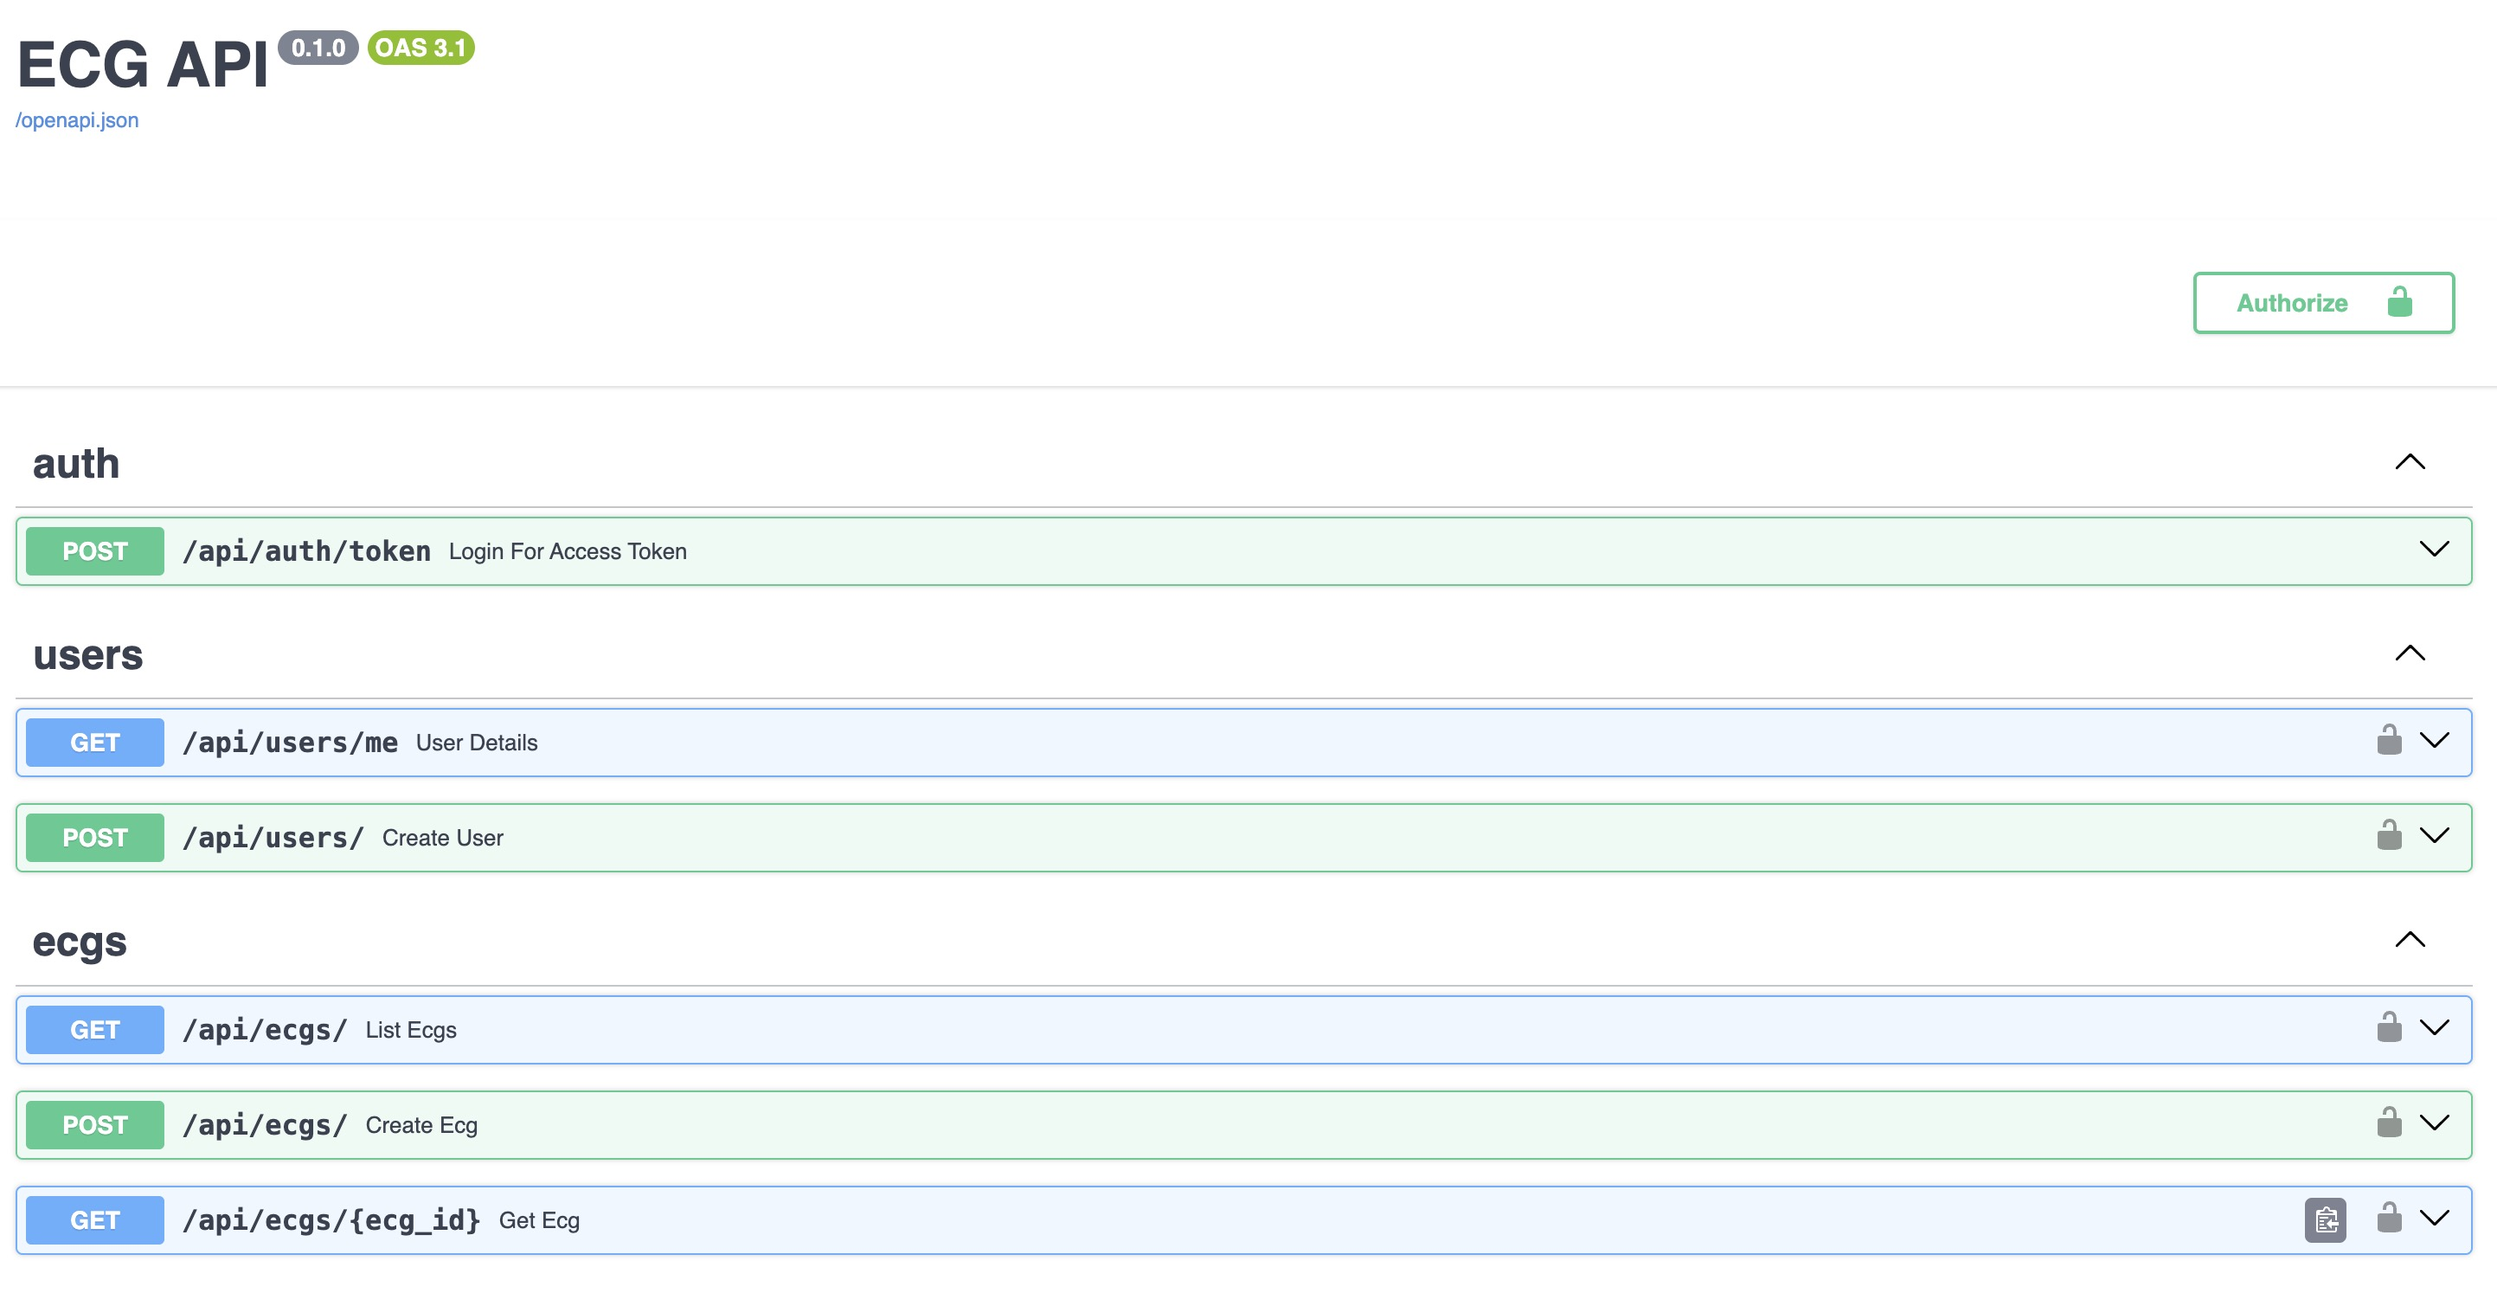
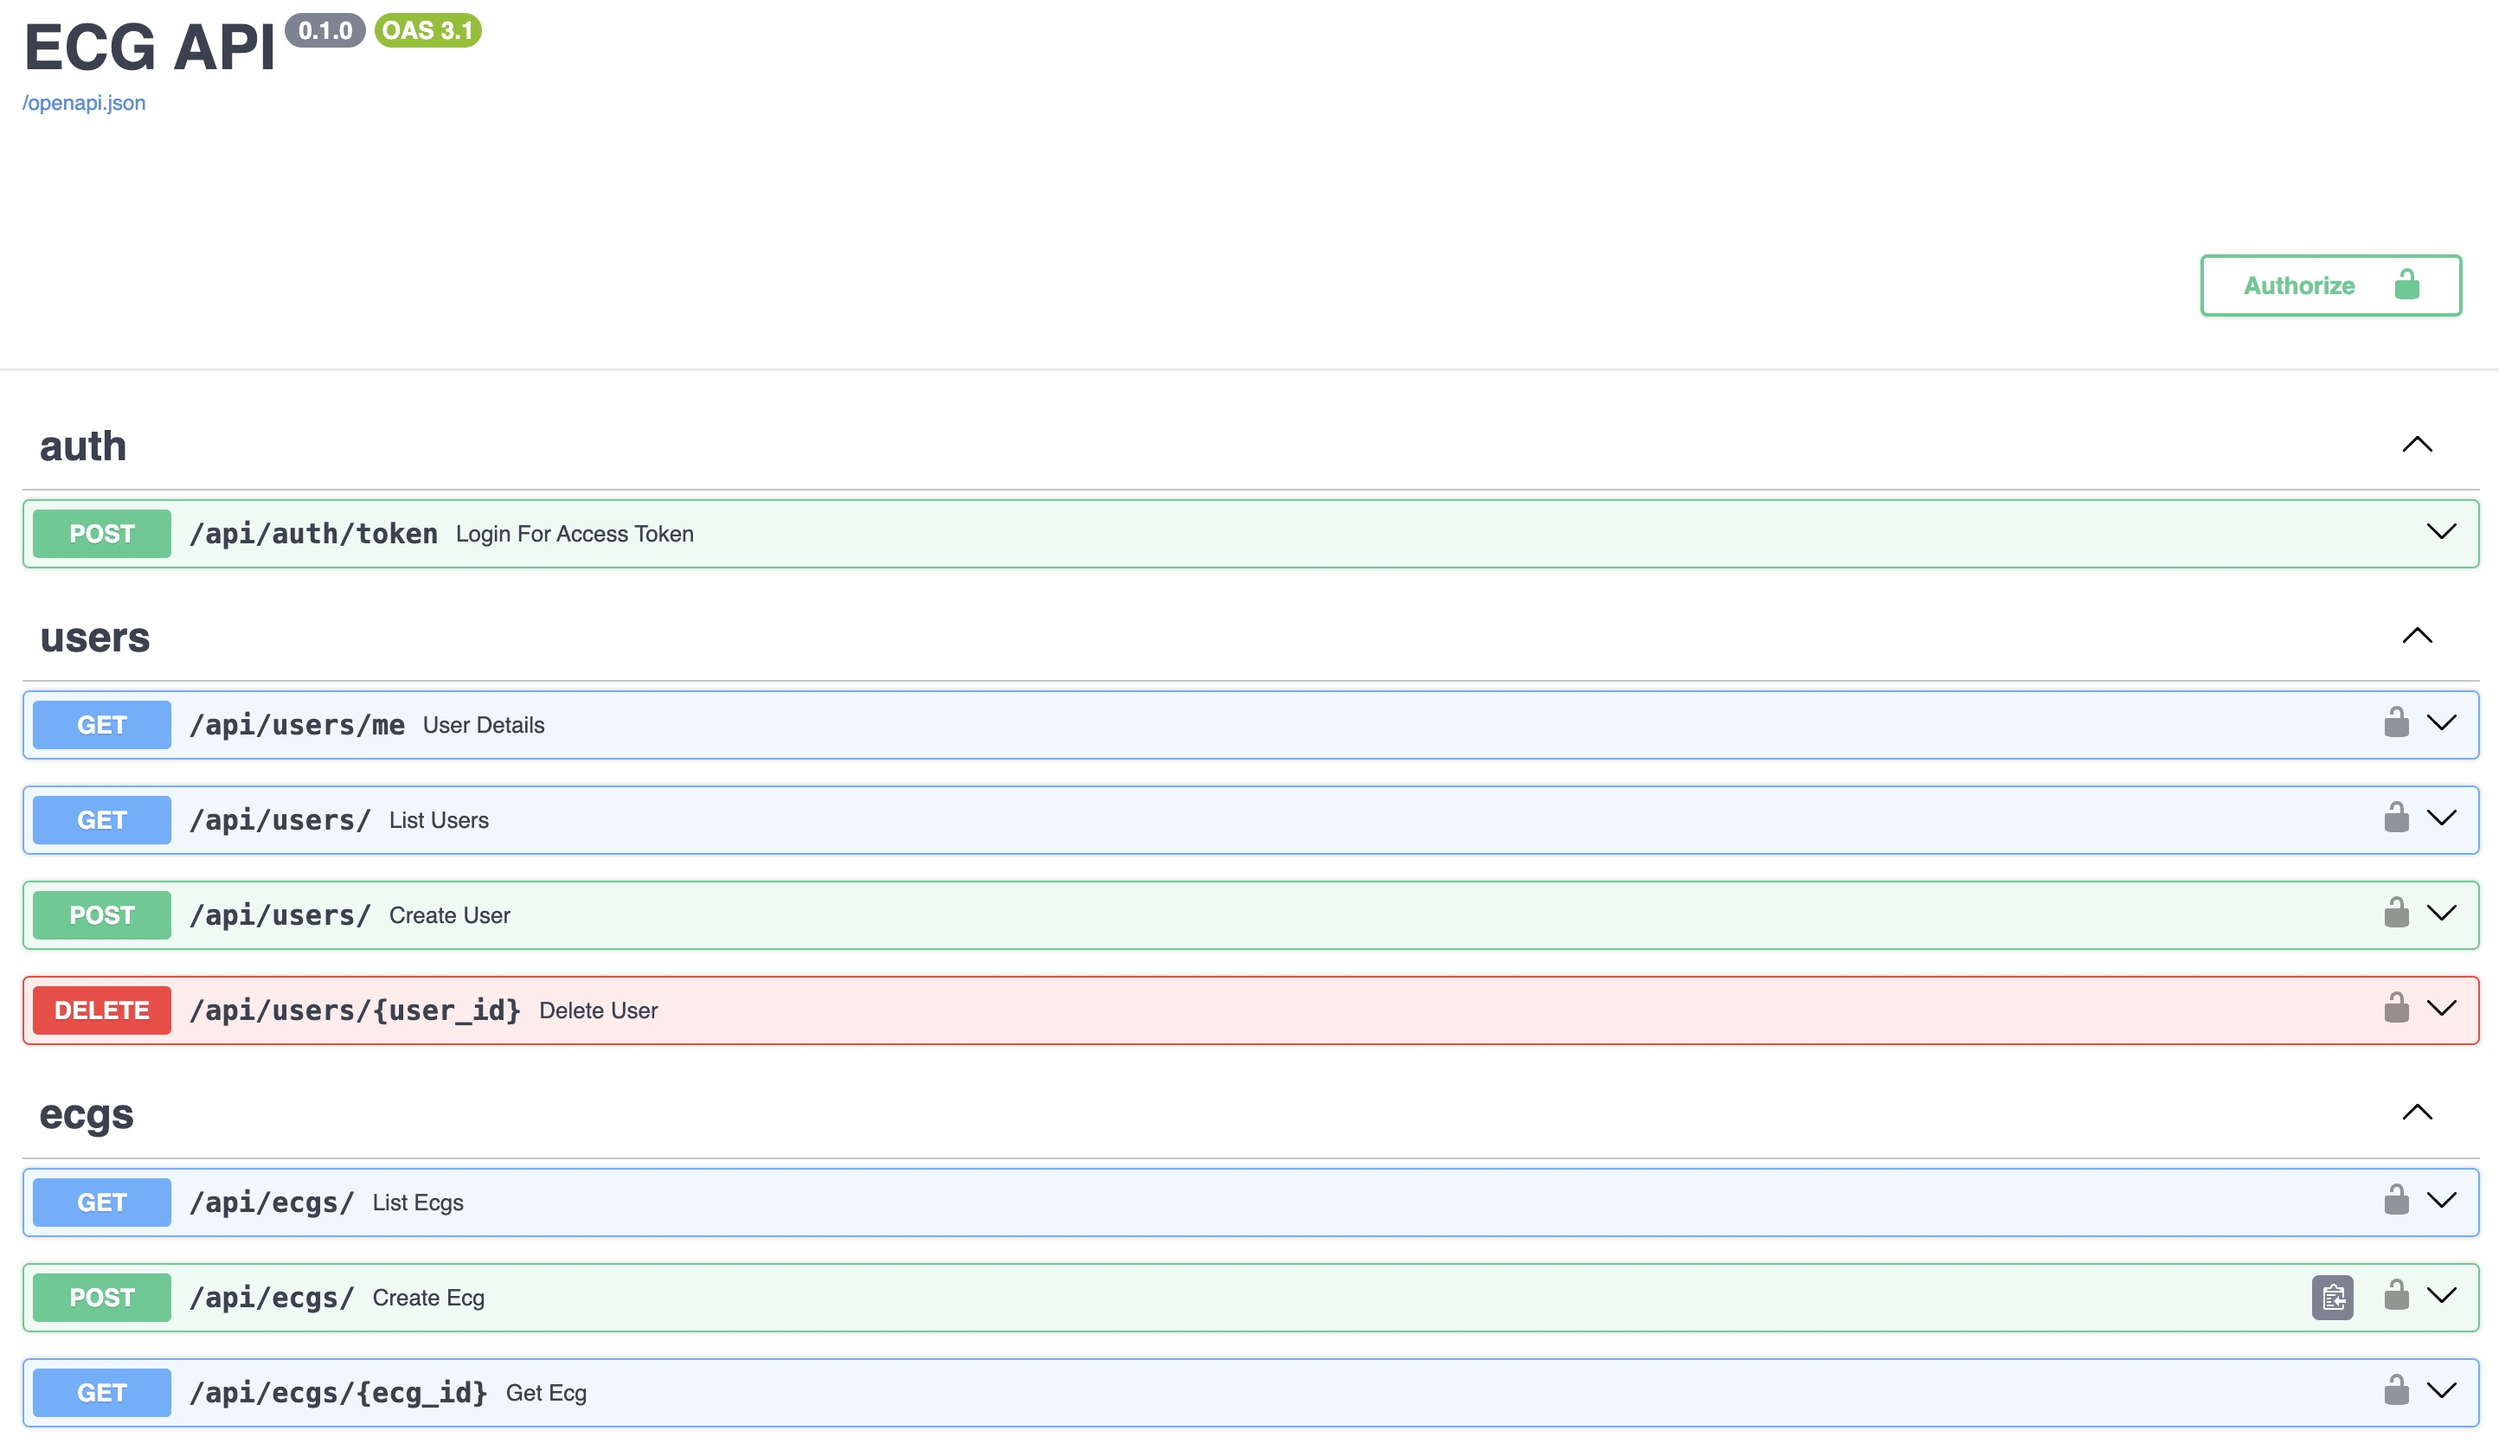
🦺 Improve validation in user endpoints
- Bonus: add extra delete and list endpoints

Changed region(s): [[0.0, 0.2771, 0.9979, 1.0], [0.0, 0.0, 0.1871, 0.1232], [0.8732, 0.1847, 0.9979, 0.2771]]

diff --git a/tests/test_users.py b/tests/test_users.py
@@ -1,8 +1,10 @@
+import uuid
 from httpx import AsyncClient
 import pytest
 from sqlalchemy.ext.asyncio import AsyncSession
 
-from app.models.user import Role
+from app.models.user import Role, UserDAL
+from app.schemas.user import User
 
 
 @pytest.mark.asyncio
@@ -59,3 +61,57 @@ async def test_user_create_no_admin_permissions(
     )
     assert response.status_code == 401
     assert response.json().get("detail") == "Not enough permissions"
+
+
+@pytest.mark.asyncio
+async def test_user_create_already_exists(
+    authenticated_client_admin: AsyncClient,
+    user: User,
+    db_session: AsyncSession,
+) -> None:
+    response = await authenticated_client_admin.post(
+        "/api/users/",
+        json={"username": user.username, "password": "user", "role": "user"},
+    )
+    assert response.status_code == 400
+    assert response.json().get("detail") == "Username already registered"
+
+
+@pytest.mark.parametrize(
+    "username, status_code",
+    [
+        ("admin", 400),  # admin user (delete yourself)
+        ("user", 200),  # regular user,
+        ("unknown", 404),  # unknown user
+    ],
+)
+@pytest.mark.asyncio
+async def test_user_delete(
+    authenticated_client_admin: AsyncClient,
+    user: User,
+    db_session: AsyncSession,
+    username: str,
+    status_code: int,
+) -> None:
+    user_dal = UserDAL(db_session)
+    user_to_delete = await user_dal.get_by_username(username)
+    user_id = user_to_delete.id if user_to_delete else uuid.uuid4()
+    response = await authenticated_client_admin.delete(f"/api/users/{user_id}")
+    assert response.status_code == status_code
+    if status_code == 200:
+        assert response.json().get("username") == user_to_delete.username
+        assert (await user_dal.get_by_username(user_to_delete.username)) is None
+
+
+@pytest.mark.asyncio
+async def test_list_users(
+    authenticated_client_admin: AsyncClient,
+    user: User,
+    admin_user: User,
+) -> None:
+    response = await authenticated_client_admin.get("/api/users/")
+    assert response.status_code == 200
+    assert {e["username"] for e in response.json()} == {
+        user.username,
+        admin_user.username,
+    }

diff --git a/app/api/routers/users.py b/app/api/routers/users.py
@@ -1,7 +1,9 @@
+from pydantic import UUID4
 from app.api.dependencies.core import DBSessionDep
 from app.api.dependencies.user import CurrentAdminUserDep, CurrentUserDep
+from app.models.user import UserDAL
 from app.schemas.user import Role, User, UserCreate
-from fastapi import APIRouter
+from fastapi import APIRouter, HTTPException
 
 from app.utils.auth import get_user, create_user as create_user_func
 
@@ -36,9 +38,49 @@ async def create_user(
     """
     Create a new user
     """
+    user_dal = UserDAL(db_session)
+    if await user_dal.get_by_username(new_user.username):
+        raise HTTPException(status_code=400, detail="Username already registered")
+
     return await create_user_func(
         db_session,
         new_user.username,
         new_user.password,
         is_superuser=new_user.role == Role.ADMIN,
     )
+
+
+@router.delete("/{user_id}", response_model=User)
+async def delete_user(
+    current_user: CurrentAdminUserDep,
+    db_session: DBSessionDep,
+    user_id: UUID4,
+) -> User:
+    """
+    Delete a user
+    """
+    user_dal = UserDAL(db_session)
+    if current_user.id == user_id:
+        raise HTTPException(status_code=400, detail="You cannot delete yourself")
+    user = await user_dal.get(user_id)
+    if user:
+        await user_dal.delete(user)
+        return user
+    else:
+        raise HTTPException(status_code=404, detail="User not found")
+
+
+@router.get(
+    "/",
+    response_model=list[User],
+)
+async def list_users(
+    current_user: CurrentAdminUserDep,
+    db_session: DBSessionDep,
+) -> list[User]:
+    """
+    Get all users
+    """
+    user_dal = UserDAL(db_session)
+    results = await user_dal.list()
+    return [e[0] for e in results]
